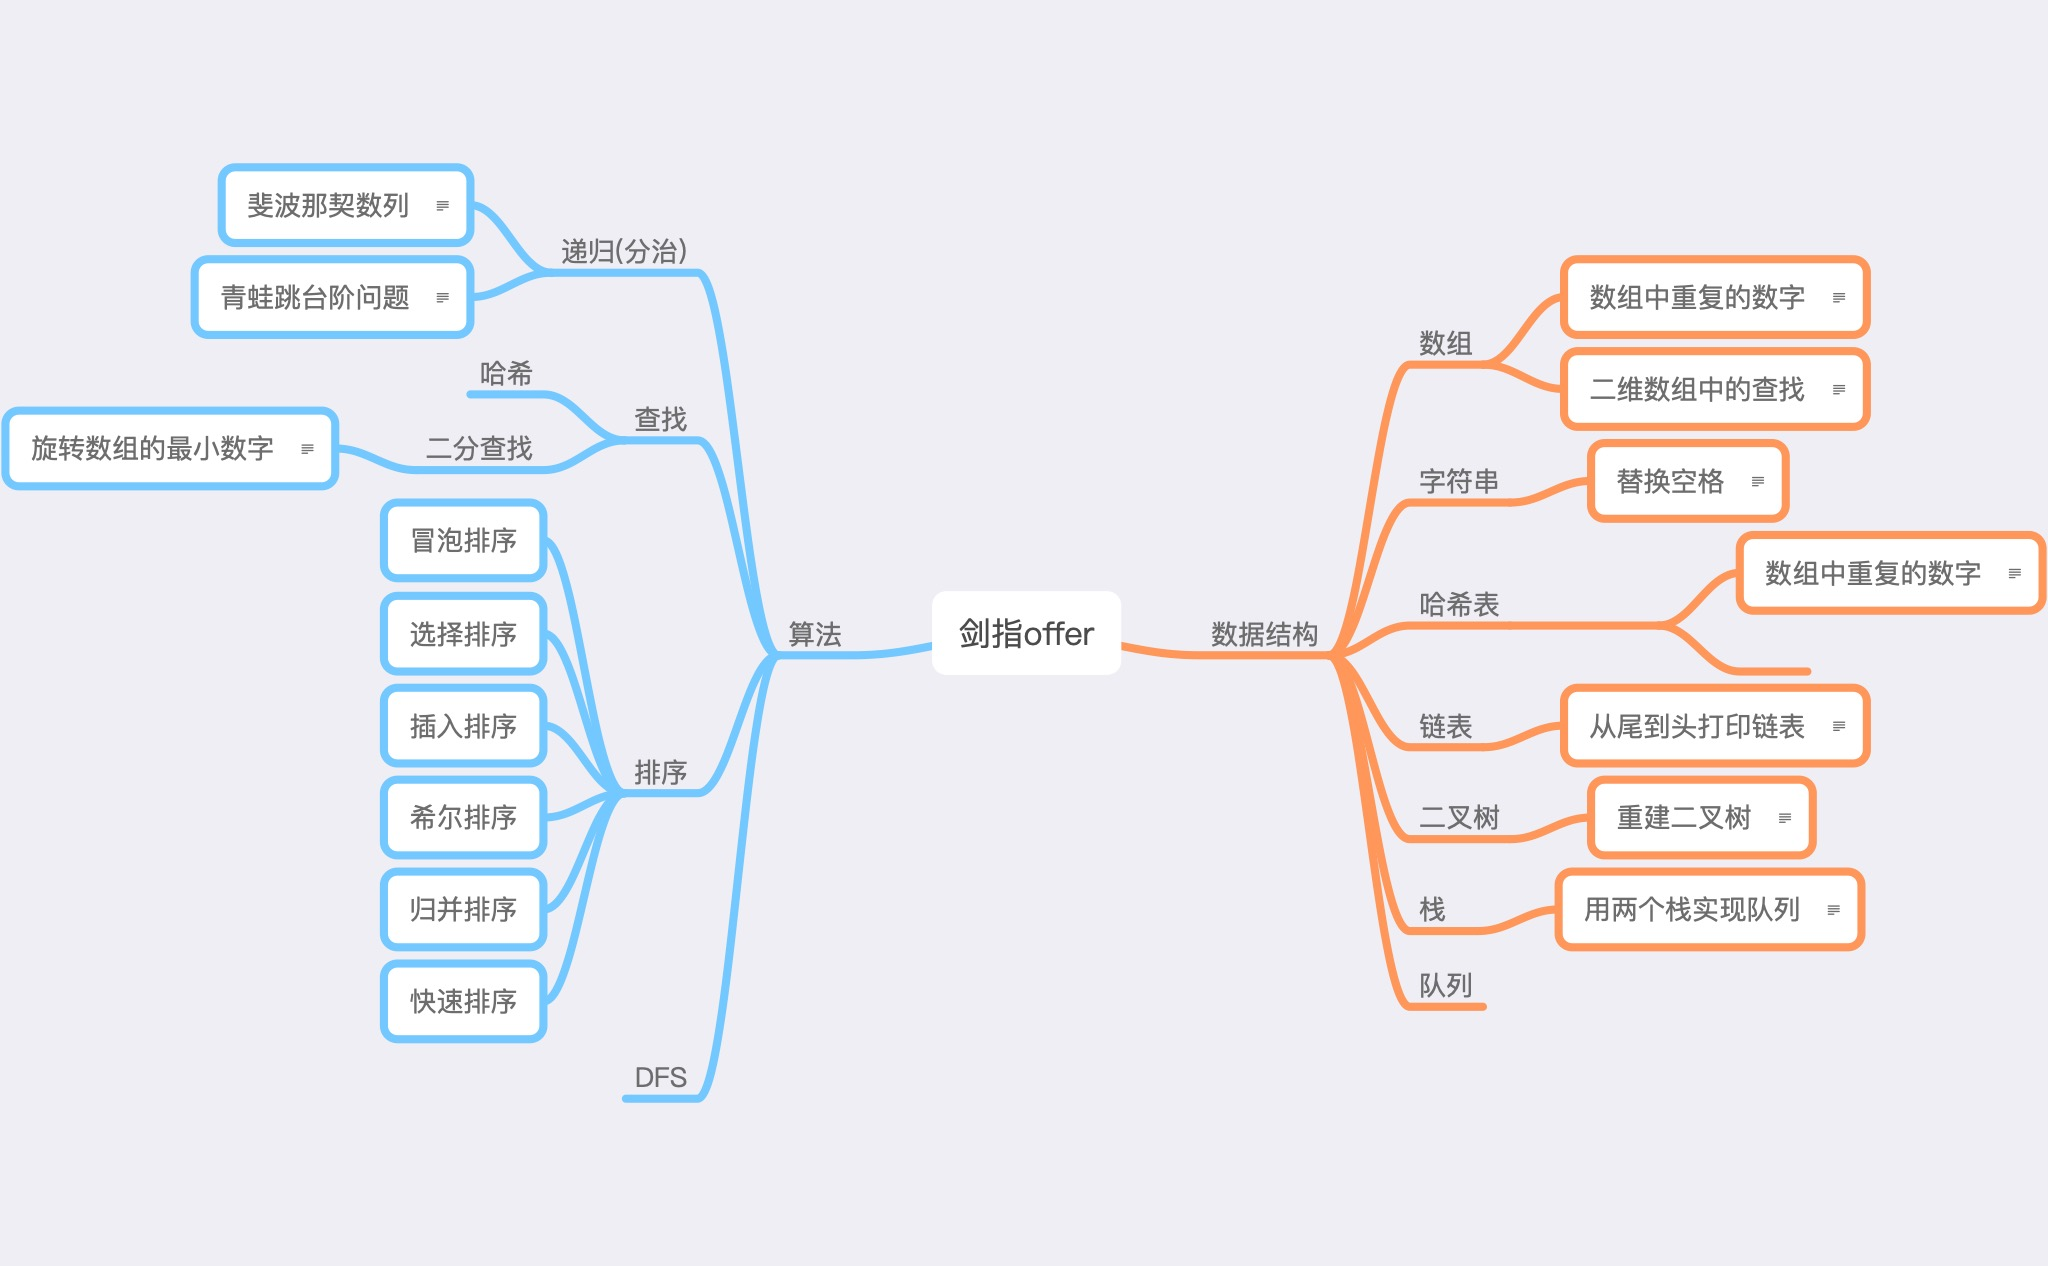
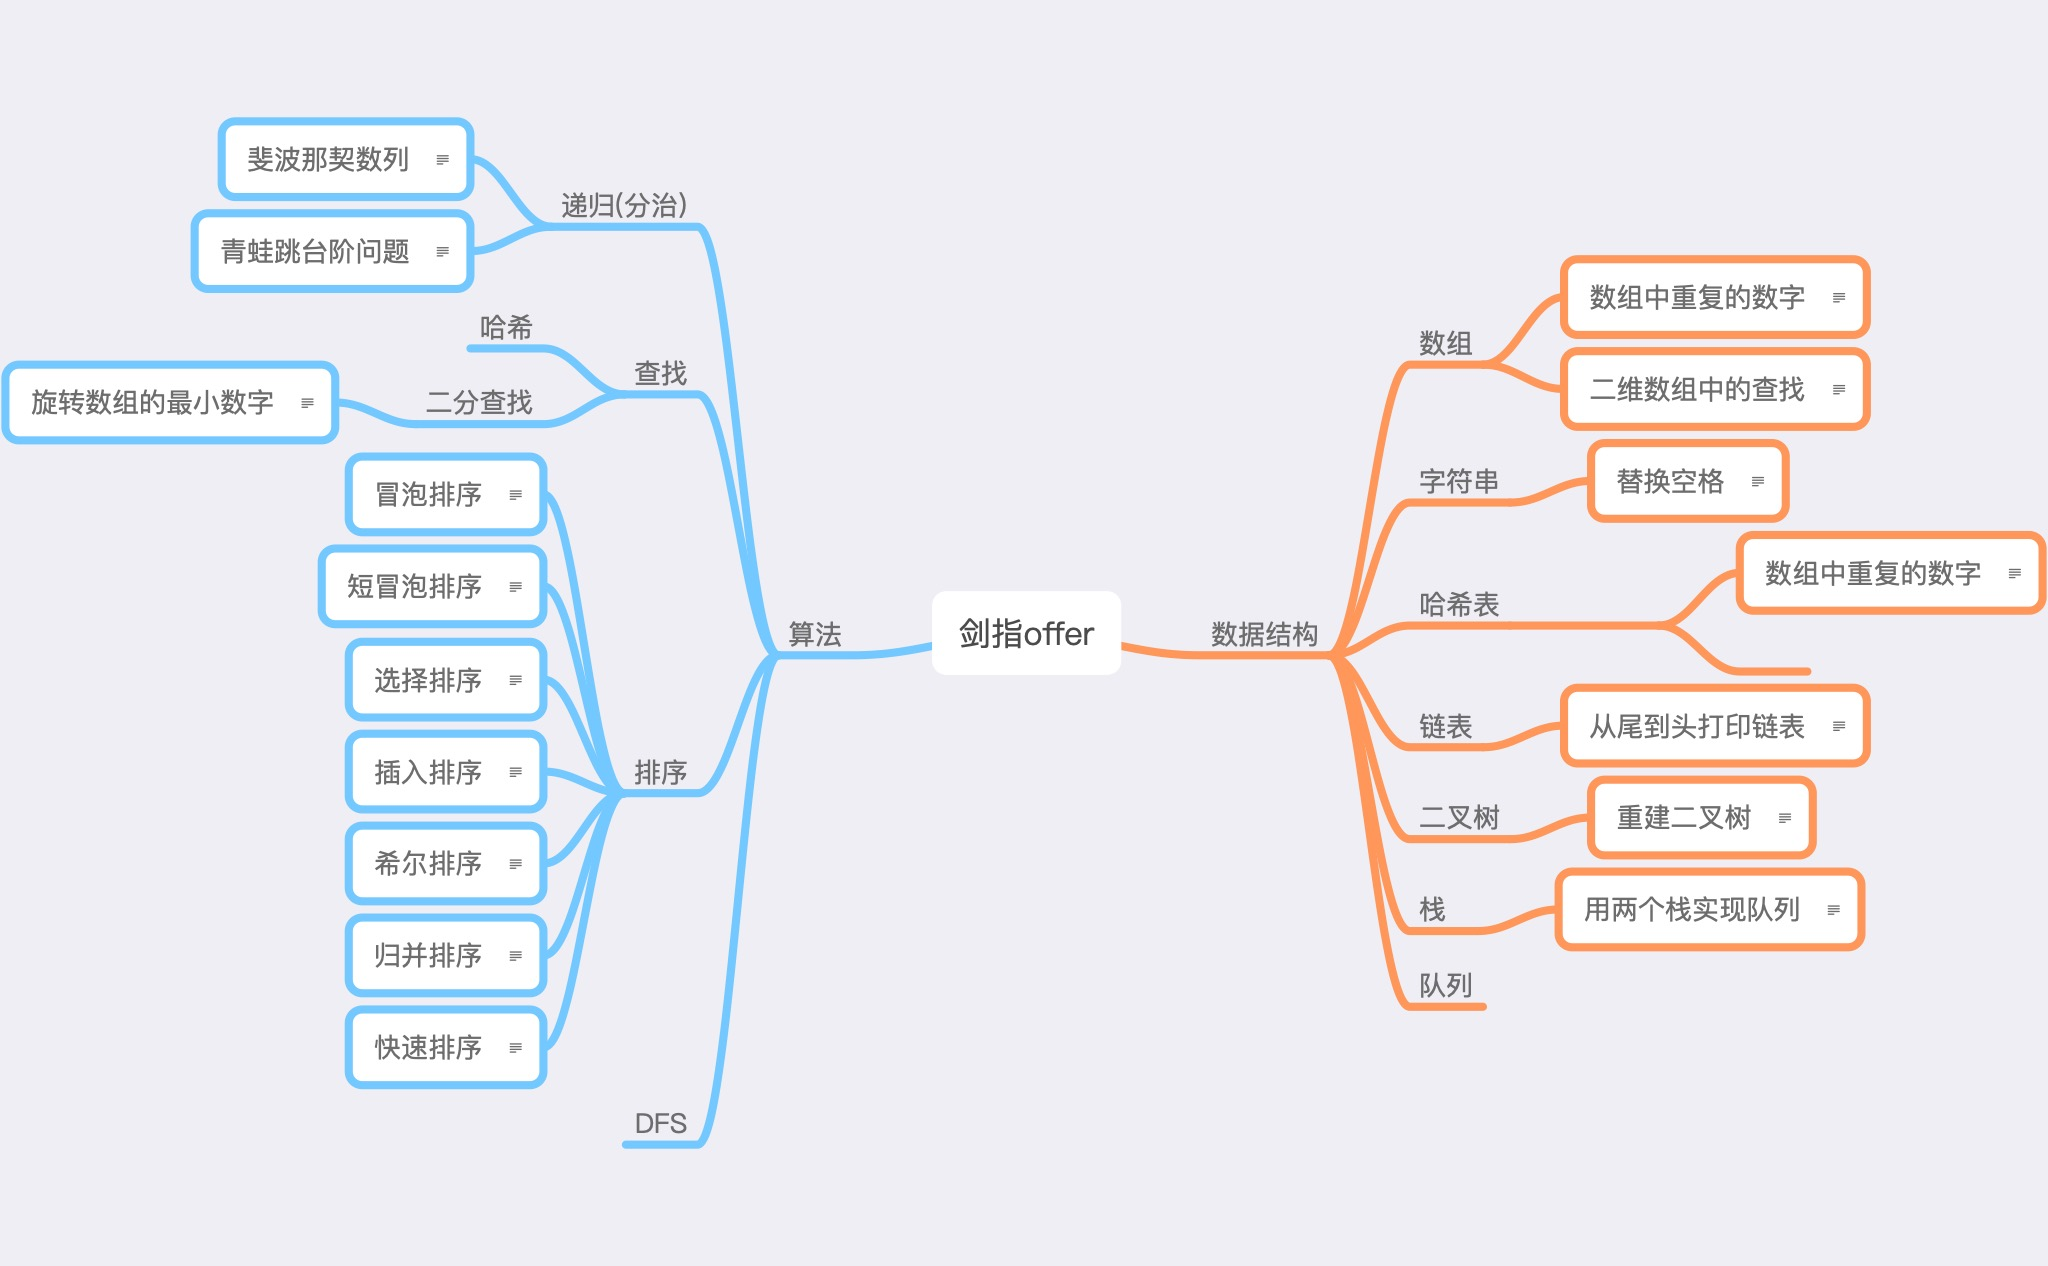
add sort

Changed region(s): [[0.0, 0.0924, 0.375, 0.8626], [0.3125, 0.6777, 0.375, 0.9242]]

diff --git a/sort/quick.py b/sort/quick.py
@@ -1,0 +1,56 @@
+#!/usr/bin/env python
+# -*- coding: utf-8 -*-
+# ylgongPw @ 2020-03-02 16:16:20
+from __future__ import unicode_literals
+from __future__ import absolute_import
+
+"""
+quick sort:快速排序
+选取数组最左边的数字作为基准点,选定第二位和最后一位为left 和  right
+如果left 大于基准点，将该数放到right的位置
+然后移动right下标，如果小于基准点，放到left的位置。直至left right相遇。
+约定一轮排序后的子列表如果只有一位元素，则排序完成，否则递归的重复上述过程
+"""
+
+def quick(alist):
+    quick_helper(alist,0,len(alist)-1)
+
+def quick_helper(alist, first, last):
+    if first < last:
+        split_point = parition(alist, first, last)
+        quick_helper(alist, first, split_point-1)
+        quick_helper(alist, split_point+1, last)
+
+
+
+def parition(alist, first, last):
+    value = alist[first]
+    left_mark = first+1
+    right_mark = last
+    done = False
+
+    while not done:
+        while left_mark <= right_mark and alist[left_mark] <= value:
+            left_mark = left_mark + 1
+
+        while right_mark >= left_mark and alist[right_mark] >= value:
+            right_mark = right_mark -1
+
+        if right_mark < left_mark:
+            done = True
+        else:
+            temp = alist[alist]
+            alist[left_mark] = alist[right_mark]
+            alist[right_mark] = temp
+
+    temp = alist[first]
+    alist[first] = alist[right_mark]
+    alist[right_mark] = temp
+
+    return right_mark
+
+
+if __name__ == '__main__':
+    alist = [31,26,20,17,44,54,77,55,93]
+    quick(alist)
+    print (alist)

diff --git a/sort/shell.py b/sort/shell.py
@@ -1,0 +1,44 @@
+#!/usr/bin/env python
+# -*- coding: utf-8 -*-
+# ylgongPw @ 2020-03-02 15:04:13
+from __future__ import unicode_literals
+from __future__ import absolute_import
+
+"""
+shell_sort:希尔排序
+希尔排序首先将列表分成几个子列表，进行插入排序，最后合并进行插入排序
+"""
+def shell(alist):
+    """
+    每次除2作为步长
+    最后一次排序,使用的step为1，进行一次完整的插入排序
+    """
+    sub_count = len(alist) // 2
+
+    while sub_count > 0:
+        for start in range(sub_count):
+            insert_sort(alist, start, sub_count)
+        sub_count = sub_count // 2
+
+def insert_sort(alist, start, step):
+    """
+    对子列表插入排序
+    Args:
+        step:步长
+        alist:列表
+        start:起始位置
+    """
+    for i in range(start+step, len(alist), step):
+        curr = alist[i]
+        pos = i
+
+        while pos >= step and alist[pos-step] > curr:
+            alist[pos] = alist[pos-step]
+            pos = pos - step
+
+        alist[pos] = curr
+
+
+if __name__ == '__main__':
+    pass
+

diff --git a/sort/insert.py b/sort/insert.py
@@ -1,0 +1,31 @@
+#!/usr/bin/env python
+# -*- coding: utf-8 -*-
+# ylgongPw @ 2020-03-02 14:12:14
+from __future__ import unicode_literals
+from __future__ import absolute_import
+
+"""
+inset sort:插入排序
+插入排序在列表的底端维护一个有序的子列表，逐渐移动列表，逐个将每个新元素插入这个子列表
+在列表起始位置是元素的子列表。从元素 1 到元素 n–1，每一轮都将当前元素与有序子列表中的元素进行比较。
+在有序子列表中，将比它大的元素右移;当遇到一个 比它小的元素或抵达子列表终点时，就可以插入当前元素。
+"""
+
+def insert(alist):
+    for index in range(1,len(alist)):
+        curr = alist[index]
+        pos = index
+
+        #在子列表中进行排序,子列表中大于curr的右移一位，小于在当前插入
+        while pos > 0 and alist[pos-1] > curr:
+            alist[pos] = alist[pos-1]
+            pos -= 1
+
+        alist[pos] = curr
+
+
+if __name__ == '__main__':
+    alist = [6,5,4,3,2,1]
+    insert(alist)
+    print (alist)
+

diff --git a/sort/sort_bubble.py b/sort/sort_bubble.py
@@ -1,0 +1,33 @@
+#!/usr/bin/env python
+# -*- coding: utf-8 -*-
+# ylgongPw @ 2020-03-02 12:13:35
+from __future__ import unicode_literals
+from __future__ import absolute_import
+
+"""
+sort_bubble sort:短冒泡排序
+冒泡排序多次遍历列表。
+每一轮比较相邻的元素，将大的数字放到后面的位置(交互顺序)。
+总计需要遍历len(n) 轮,每遍历一轮,需要冒泡比较的数据量 -1
+如果某一轮遍历，发现不需要交换数据的顺序，则证明该数据已经排序完成，可以不用继续排序
+"""
+def sort_bubble(alist):
+    length = len(alist) - 1
+
+    for _ in range(len(alist)):
+        exchange = False
+        for i in range(length):
+            if alist[i] > alist[i+1]:
+                exchange = True
+                tmp = alist[i]
+                alist[i] = alist[i+1]
+                alist[i+1] = tmp
+        if exchange == False:
+            return
+        length -= 1
+
+if __name__ == '__main__':
+    alist = [1,2,3,5,4]
+    bubble_sort(alist)
+    print (alist)
+

diff --git a/sort/merge.py b/sort/merge.py
@@ -1,0 +1,45 @@
+#!/usr/bin/env python
+# -*- coding: utf-8 -*-
+# ylgongPw @ 2020-03-02 15:50:03
+
+"""
+merge sort:归并排序，会对一个大列表做拆分。拆分完成后，各子列表进行合并排序。最后得到结果
+"""
+
+def mergesort(alist):
+    """
+    对列表使用二分法拆分
+    """
+    if len(alist) <= 1:
+        return alist
+    mid = len(alist) // 2
+    left = mergesort(alist[:mid])
+    right = mergesort(alist[mid:])
+
+    return merge(left, right)
+
+def merge(left, right):
+    """
+    合并并对子列表进行排序
+    """
+    result = []
+    i = 0
+    j = 0
+
+    while i < len(left) and j < len(right):
+        if left[i] <= right[j]:
+            result.append(left[i])
+            i += 1
+        else:
+            result.append(right[j])
+            j += 1
+    result += left[i:]
+    result += right[j:]
+    return result
+
+
+if __name__ == '__main__':
+    alist = [4,3,1,2]
+    sort_list = mergesort(alist)
+    print (sort_list)
+

diff --git a/sort/select.py b/sort/select.py
@@ -1,0 +1,34 @@
+#!/usr/bin/env python
+# -*- coding: utf-8 -*-
+# ylgongPw @ 2020-03-02 12:20:47
+from __future__ import unicode_literals
+from __future__ import absolute_import
+
+"""
+select sort:选择排序
+选择排序:在每次遍历的时候寻找最大值，并在遍历完成后将最大值放到当前轮次的最后一位。
+并将最后一位移动到最大值的位置
+"""
+
+def select_sort(alist):
+    length = len(alist) 
+
+    max_index = 0 #假设索引为0是最大数
+
+    for _ in range(len(alist)):
+        for i in range(length):
+            if alist[i] > alist[max_index]:
+                max_index = i
+        length -= 1
+
+        tmp = alist[max_index]
+        alist[max_index] = alist[length]
+        alist[length] = tmp #最后一位
+        max_index = 0
+
+
+
+if __name__ == '__main__':
+    alist = [54,26,93,17,77,31,44,55,20]
+    select_sort(alist)
+    print (alist)

diff --git a/sort/bubble.py b/sort/bubble.py
@@ -1,0 +1,27 @@
+#!/usr/bin/env python
+# -*- coding: utf-8 -*-
+# ylgongPw @ 2020-03-02 11:45:53
+from __future__ import unicode_literals
+from __future__ import absolute_import
+
+"""
+bubble sort:冒泡排序
+冒泡排序多次遍历列表。
+每一轮比较相邻的元素，将大的数字放到后面的位置(交互顺序)。
+总计需要遍历len(n) 轮,每遍历一轮,需要冒泡比较的数据量 -1
+"""
+def bubble_sort(alist):
+    length = len(alist) - 1
+
+    for _ in range(len(alist)):
+        for i in range(length):
+            if alist[i] > alist[i+1]:
+                tmp = alist[i]
+                alist[i] = alist[i+1]
+                alist[i+1] = tmp
+        length -= 1
+
+if __name__ == '__main__':
+    alist = [6,5,4,3,2,1]
+    bubble_sort(alist)
+    print (alist)
